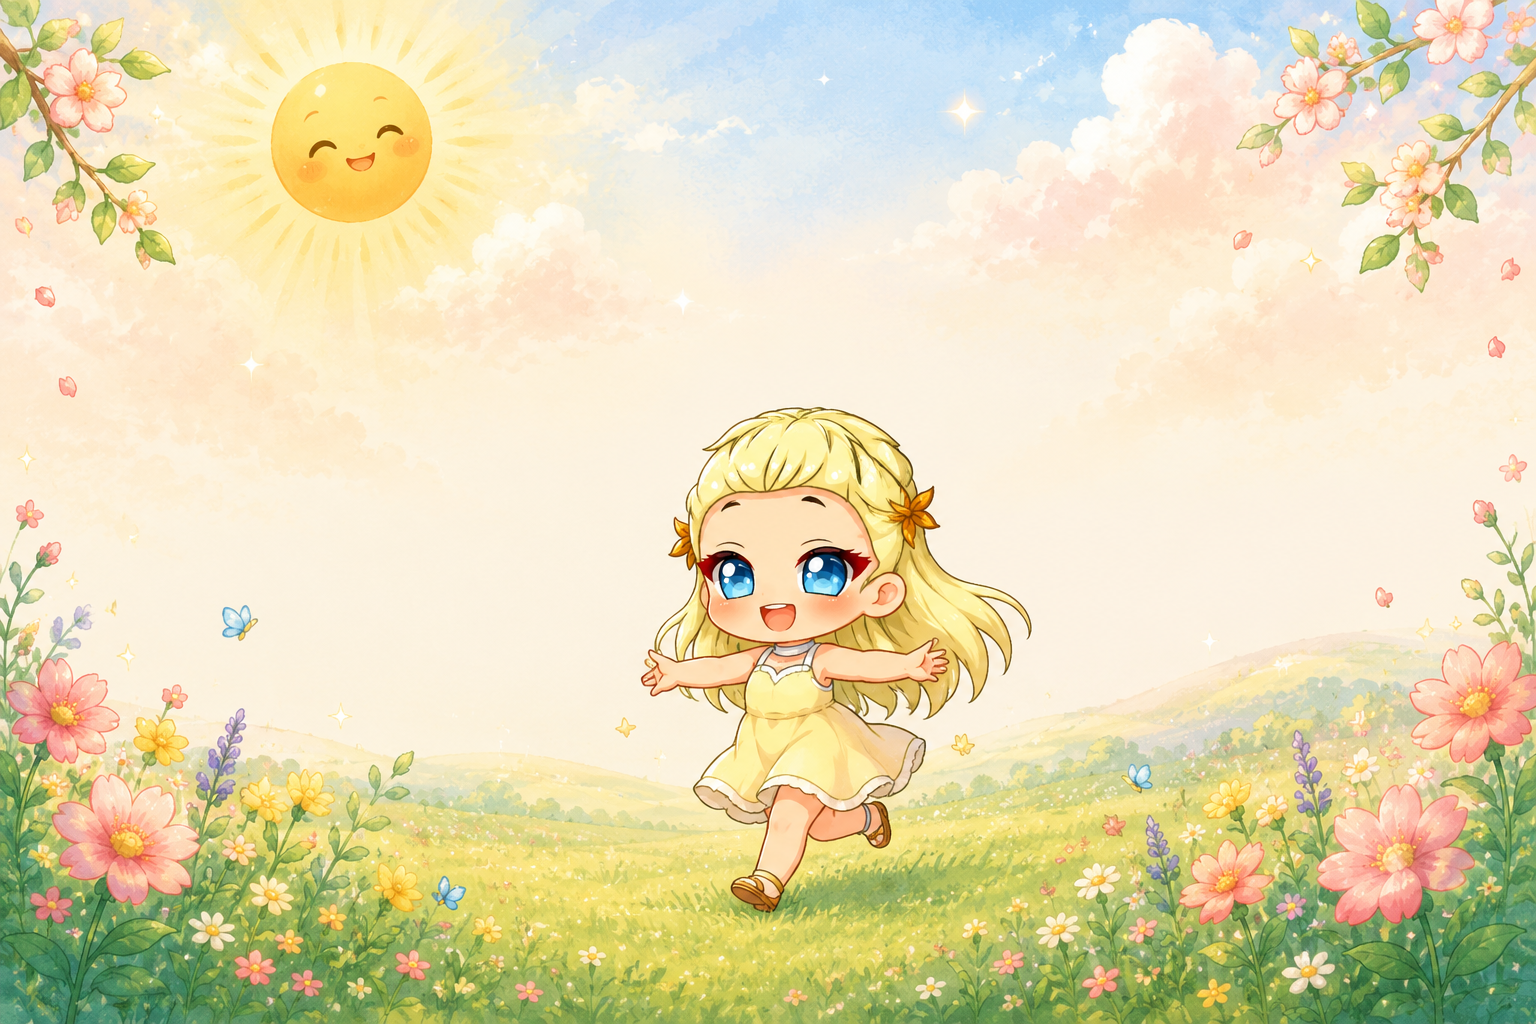
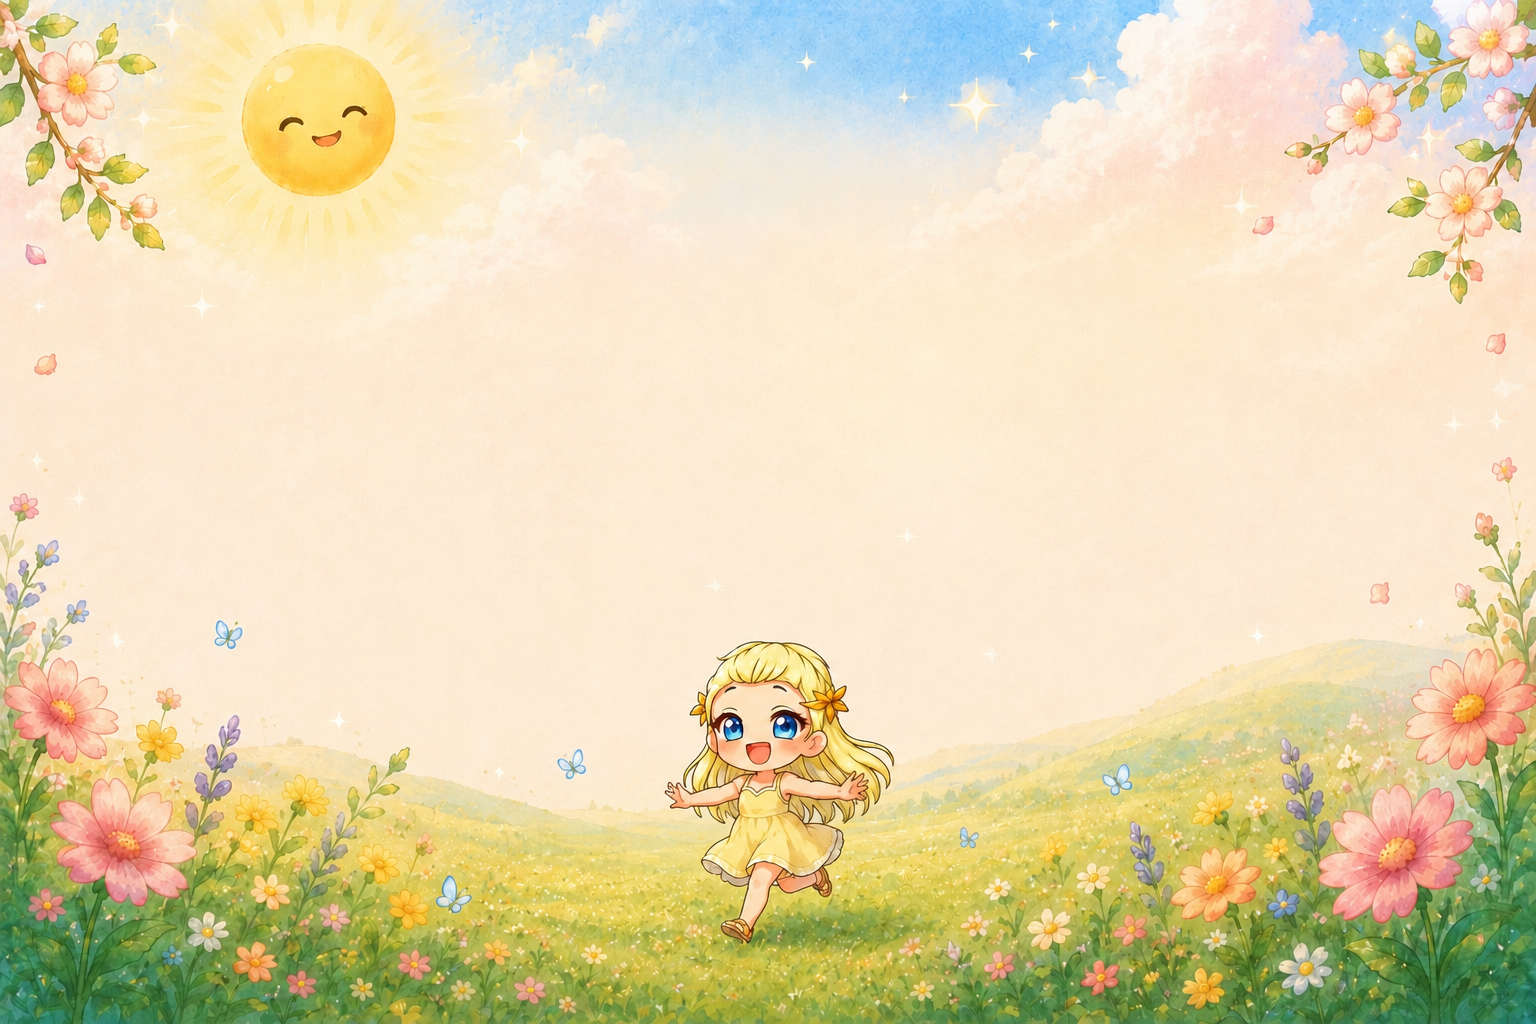
Lift week chart off the girl + fade legend into background
Swap in a recomposed week background with more open sky, then reshape
render_week_strip so the title, cells, and legend all sit in the upper
half of the image and the lower half is empty background — the chibi
girl now shows through underneath the chart instead of being hidden by
it.

Drop LEGEND_FILL alpha from 225 to 60 so the legend pill (shared by
both charts) reads as a faint tint rather than a bright white bar over
the decorative background.

diff --git a/chart.py b/chart.py
@@ -337,7 +337,7 @@ TODAY_INK = (90, 130, 130)
 DAY_FG = (90, 80, 70)
 MISSED_FG = (180, 60, 60)
 PENDING_FG = (140, 130, 120)
-LEGEND_FILL = (255, 255, 255, 225)
+LEGEND_FILL = (255, 255, 255, 60)
 LEGEND_FG = (55, 70, 70)
 CELL_RADIUS = 6
 
@@ -518,9 +518,11 @@ def render_week_strip(end_day: Optional[date] = None) -> bytes:
     cols = 7
     title_h = 76
     weekday_h = 34
+    legend_gap = 14
     footer_h = 76
+    bottom_pad = 255
     width = pad * 2 + cols * cell
-    height = pad * 2 + title_h + weekday_h + cell + footer_h
+    height = pad + title_h + weekday_h + cell + legend_gap + footer_h + bottom_pad
 
     img = Image.new("RGBA", (width, height), BG + (255,))
     if BG_PATH_WEEK.exists():
@@ -589,7 +591,8 @@ def render_week_strip(end_day: Optional[date] = None) -> bytes:
 
     cnt = storage.counts(start_day, end_day)
     streak = storage.current_streak()
-    _draw_legend(draw, img, width, height - footer_h, footer_h,
+    legend_top = pad + title_h + weekday_h + cell + legend_gap
+    _draw_legend(draw, img, width, legend_top, footer_h,
                  cnt["taken"], cnt["missed"], streak, footer_font, pool)
 
     out = io.BytesIO()
